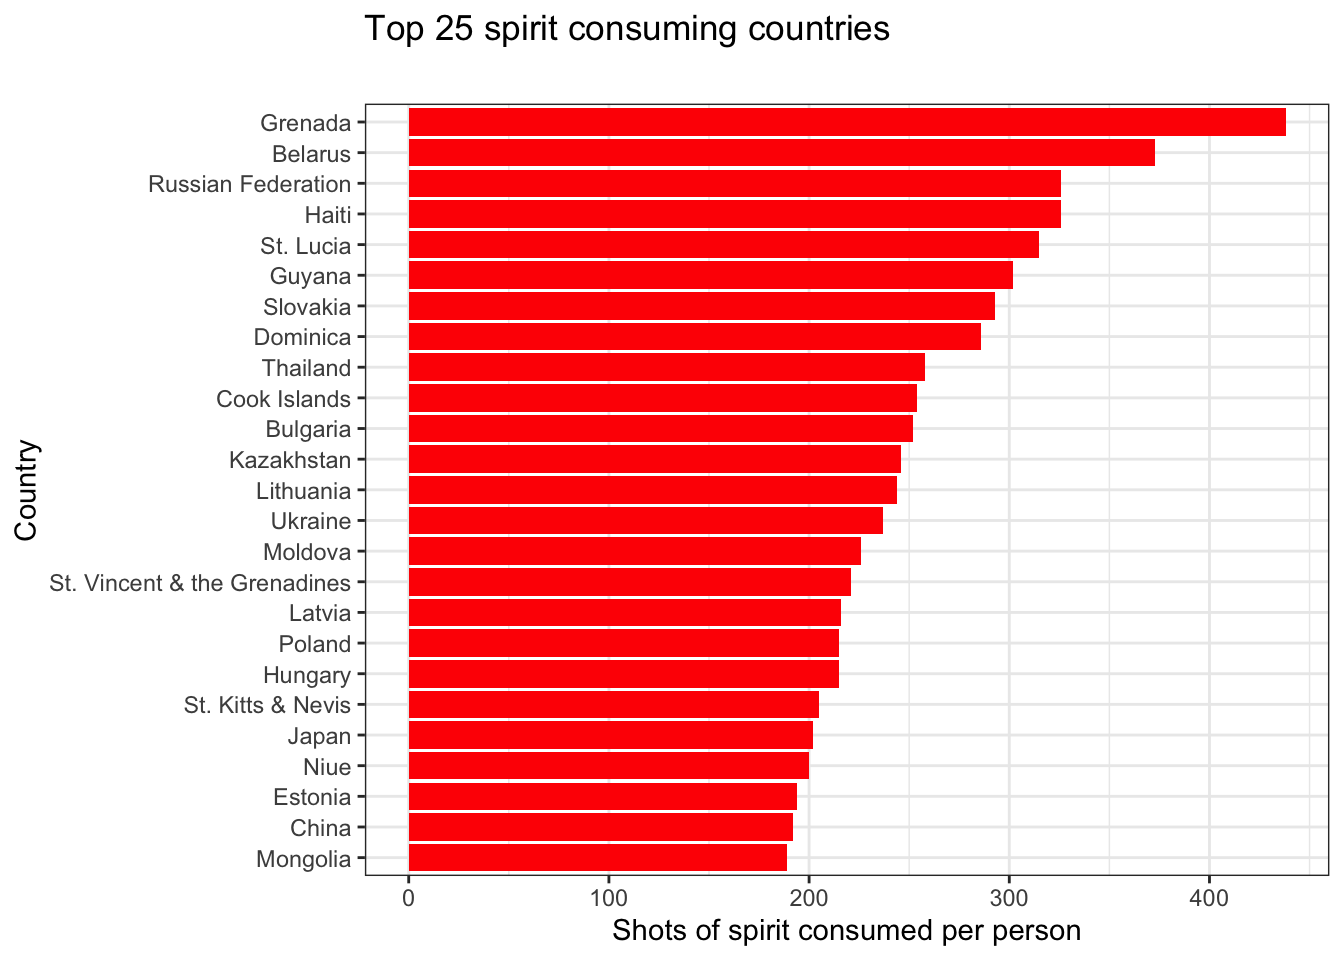
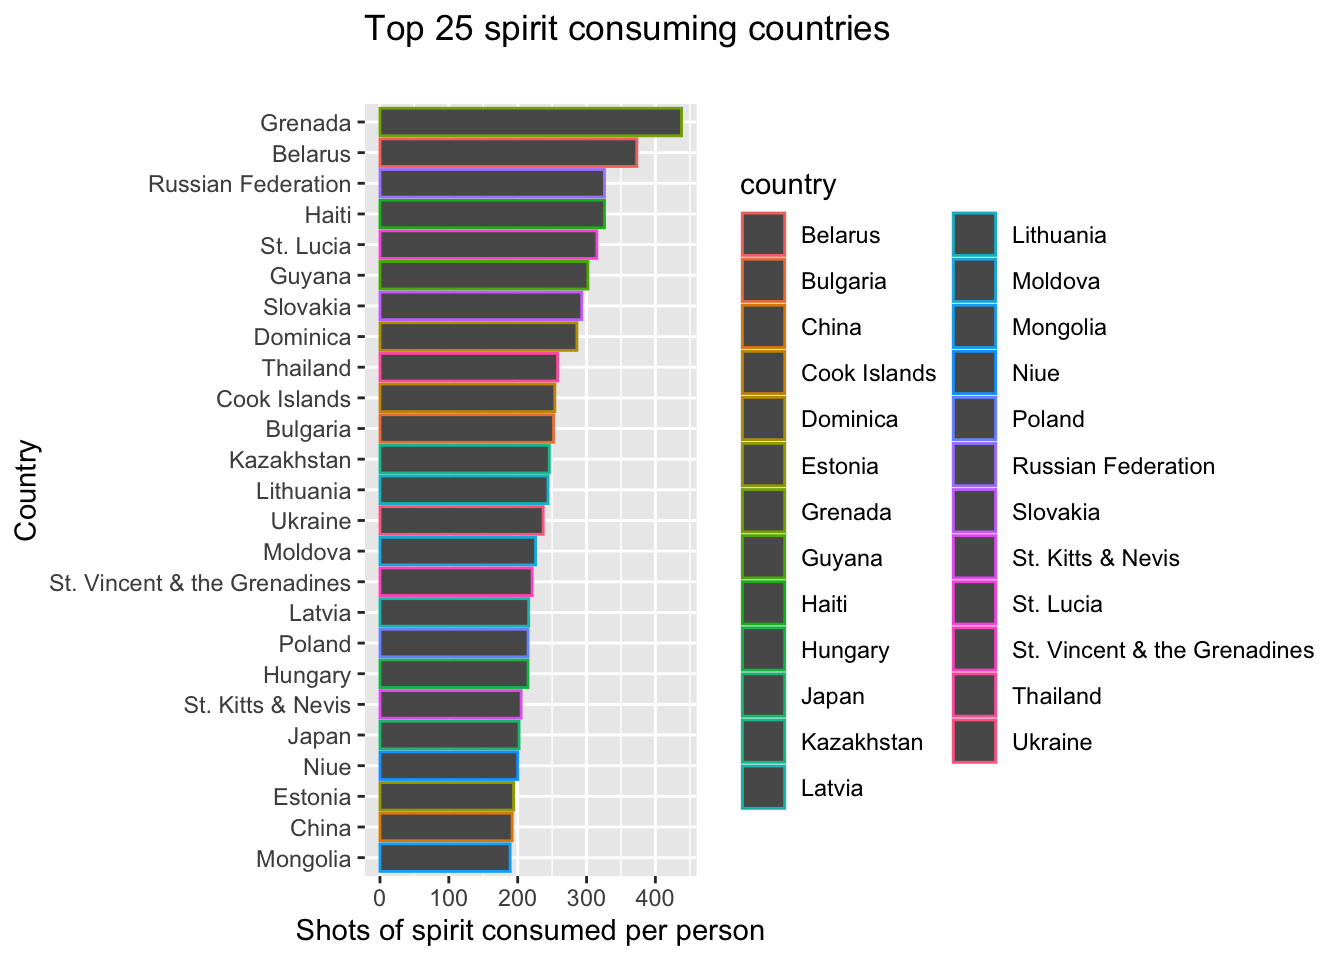
initial commit

diff --git a/content/blogs/Project5.html b/content/blogs/Project5.html
@@ -181,9 +181,8 @@ data(drinks)</code></pre>
 <p><strong>Plot that shows the top 25 wine consuming countries</strong></p>
 <pre class="r"><code>drinks %&gt;%
   slice_max(order_by = wine_servings, n=25) %&gt;%
-  ggplot(aes(x=wine_servings, y=fct_reorder(country,wine_servings)))+
-  geom_col(fill=&#39;green&#39;)+
-  theme_bw()+
+  ggplot(aes(x=wine_servings, y=fct_reorder(country,wine_servings), color = country))+
+  geom_col()+
   labs(
     title = &quot;Top 25 wine consuming countries&quot;,
     subtitle = &quot;&quot;,
@@ -196,9 +195,8 @@ data(drinks)</code></pre>
 <p><strong>Finally, A plot that shows the top 25 spirit consuming countries</strong></p>
 <pre class="r"><code>drinks %&gt;%
   slice_max(order_by = spirit_servings, n=25) %&gt;%
-  ggplot(aes(x=spirit_servings, y=fct_reorder(country,spirit_servings)))+
-  geom_col(fill=&#39;red&#39;)+
-  theme_bw()+
+  ggplot(aes(x=spirit_servings, y=fct_reorder(country,spirit_servings), color = country))+
+  geom_col()+
   labs(
     title = &quot;Top 25 spirit consuming countries&quot;,
     subtitle = &quot;&quot;,
